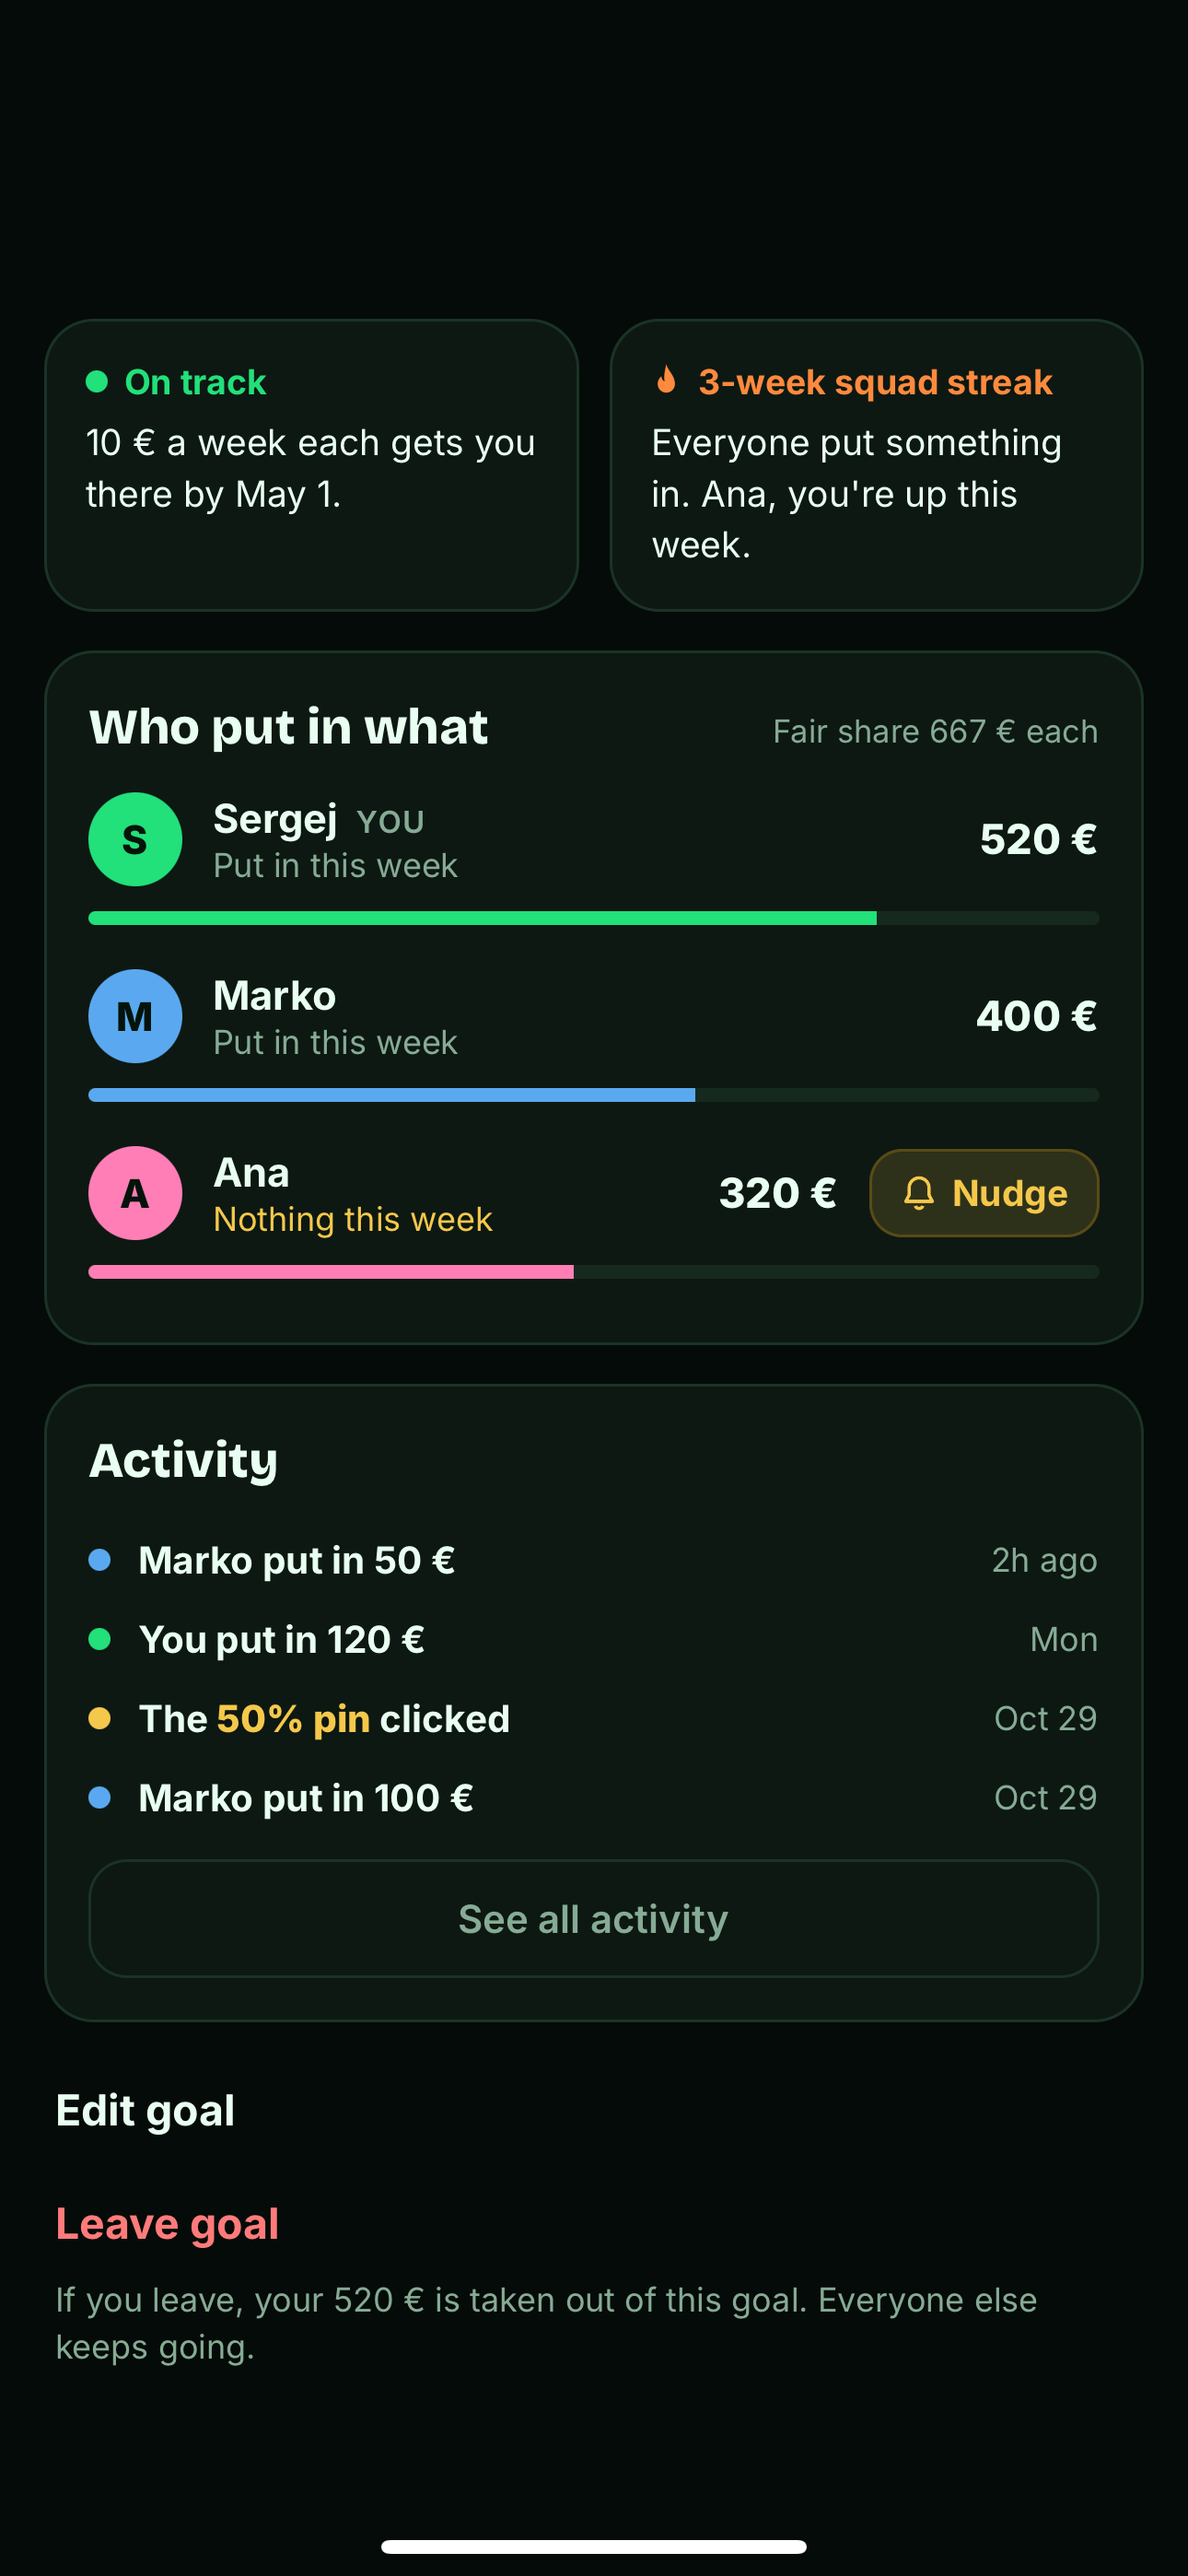
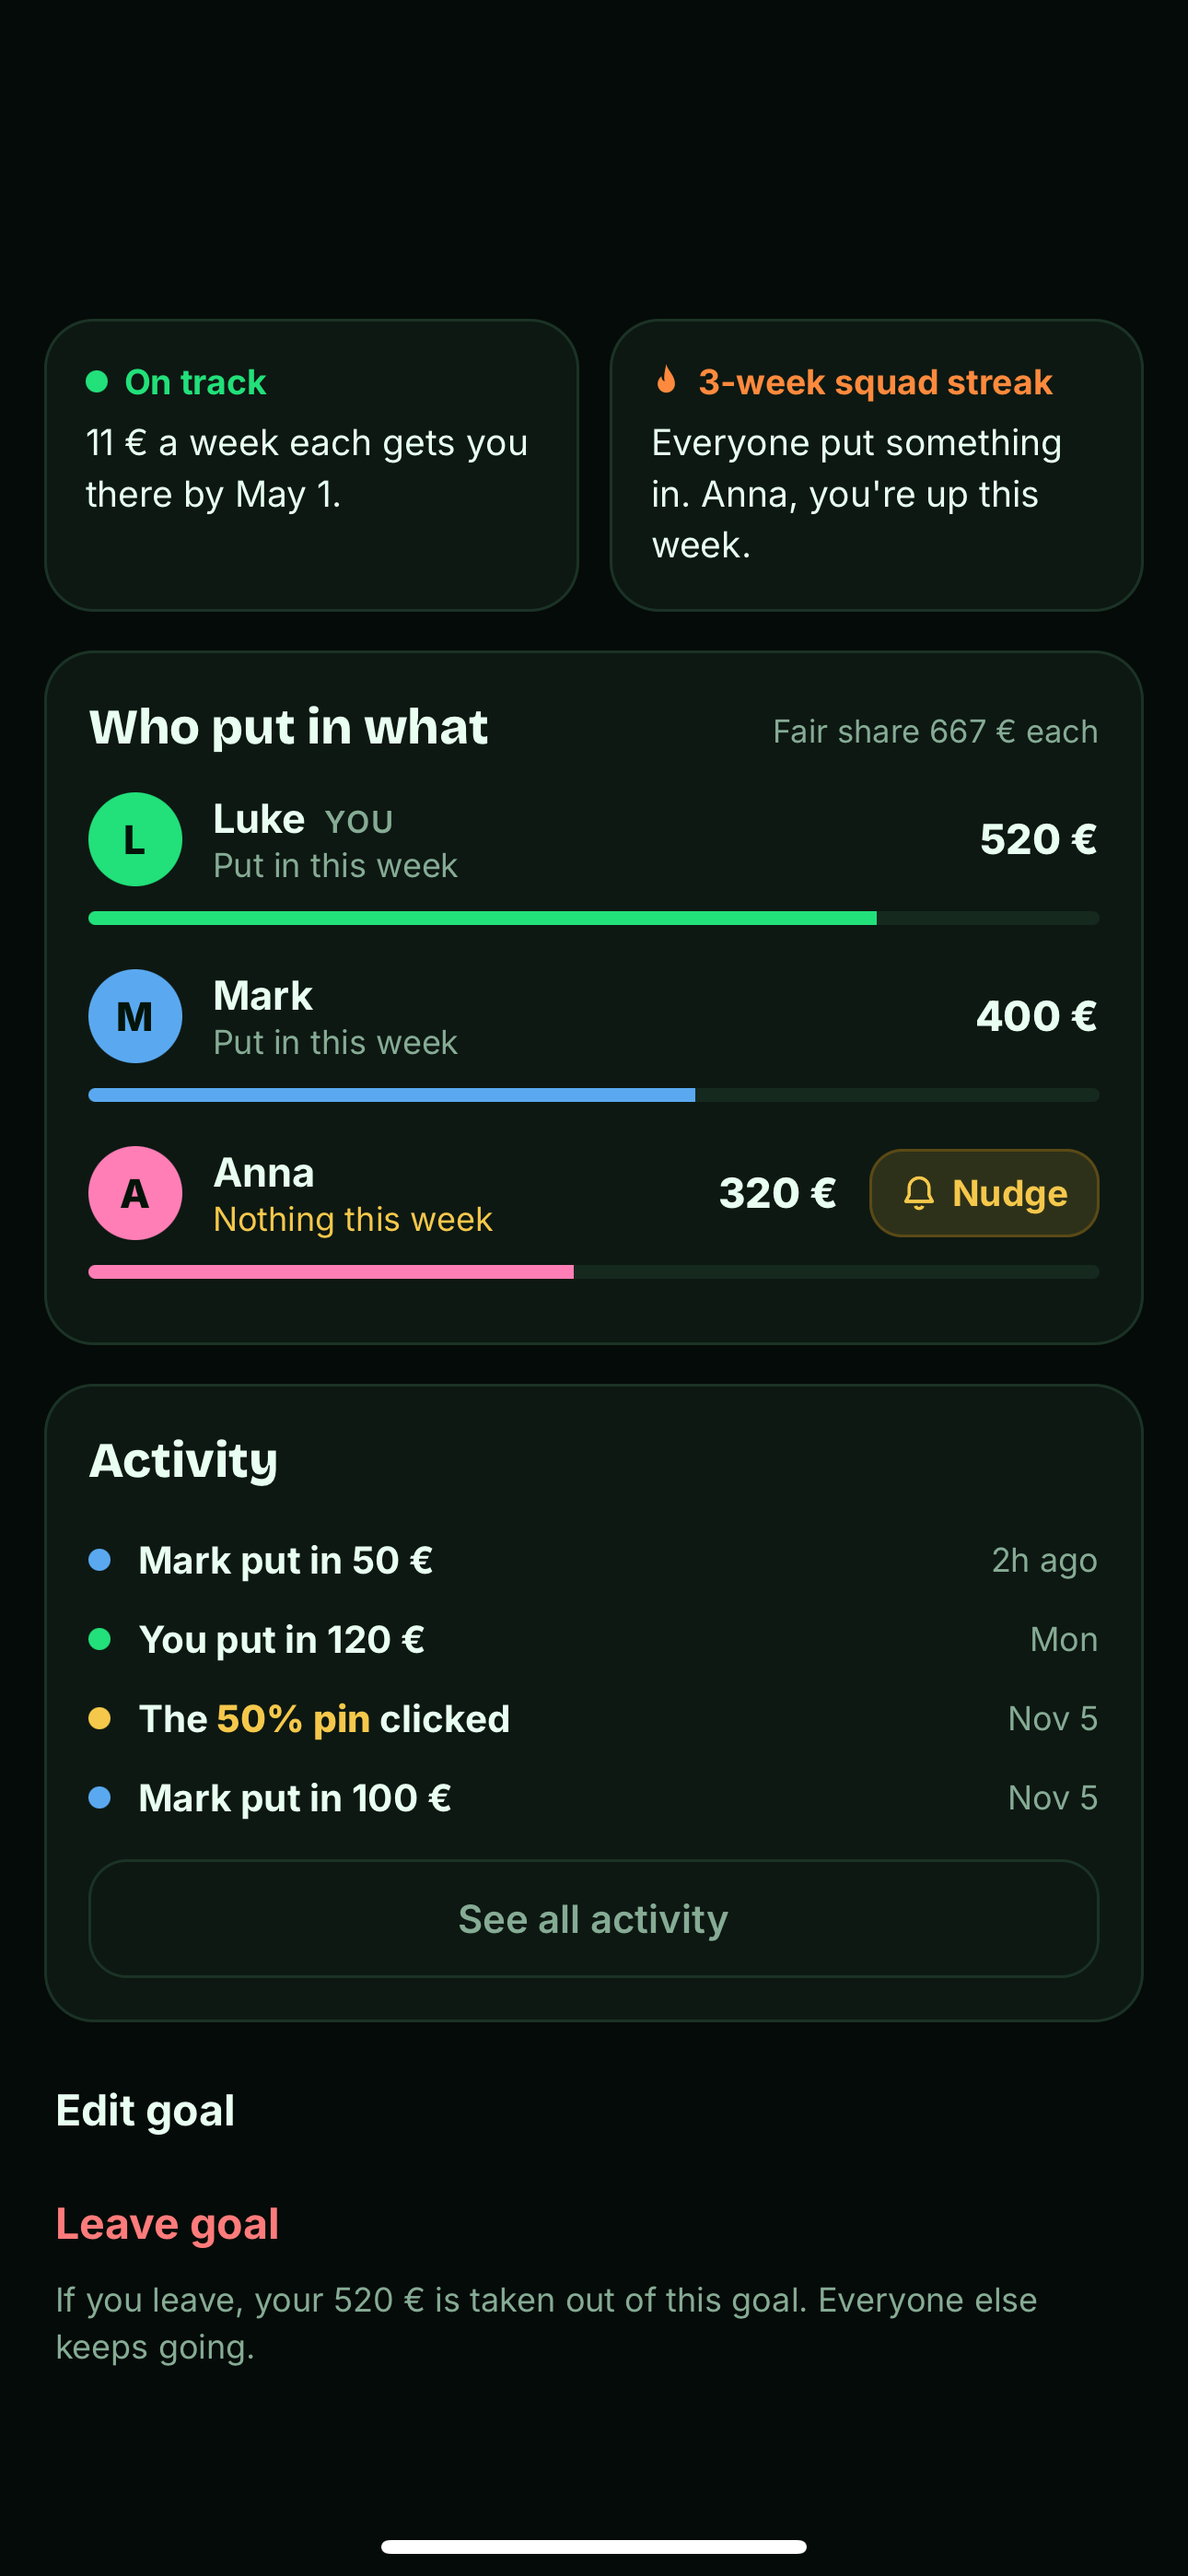
App Store: slike 6 i 7 sa engleskim imenima, slika za review pretplata, build 2 pokrenut

diff --git a/docs/PROJEKAT.md b/docs/PROJEKAT.md
@@ -422,7 +422,7 @@ Urađeno:
   naloga S M A → L M A; primer na Privacy stranici „Mark added €50“; sva imena u testovima i komentarima
   (Anna, Mark, Luke, Ben, Cleo, Dan, Ivy). Prototip (`index.html`) i SQL komentari u već postavljenim migracijama
   nisu dirani. Slike za Google Play 6–8 ponovo snimljene na Android-u sa engleskim imenima (12. nov. 2026); slike za App Store
-6 i 7 (`docs/prodavnica/app-store/`) još pokazuju stara imena i treba ih ponovo snimiti na iPhone-u. Tekst o privatnosti dopunjen (korak 6).
+6 i 7 (`docs/prodavnica/app-store/`) ponovo snimljene na iPhone-u (TestFlight, demo, 15. nov. 2026; statusna traka prekrivena bojom pozadine). Tekst o privatnosti dopunjen (korak 6).
   Migracija `0006` + nova verzija `send-goal-push` (tekstovi za nudge, pin i otključavanje). Testovi: 18 provera logike
   cilja, 38 provera za `0006`, spisak kolona i RPC-ova u `privacy.test.mjs` dopunjen, 7 novih provera teksta push-a.
   Provereno u pregledaču (demo, tamna i svetla tema, mere prema slikama). Nije provereno na telefonima ni sa pravim
